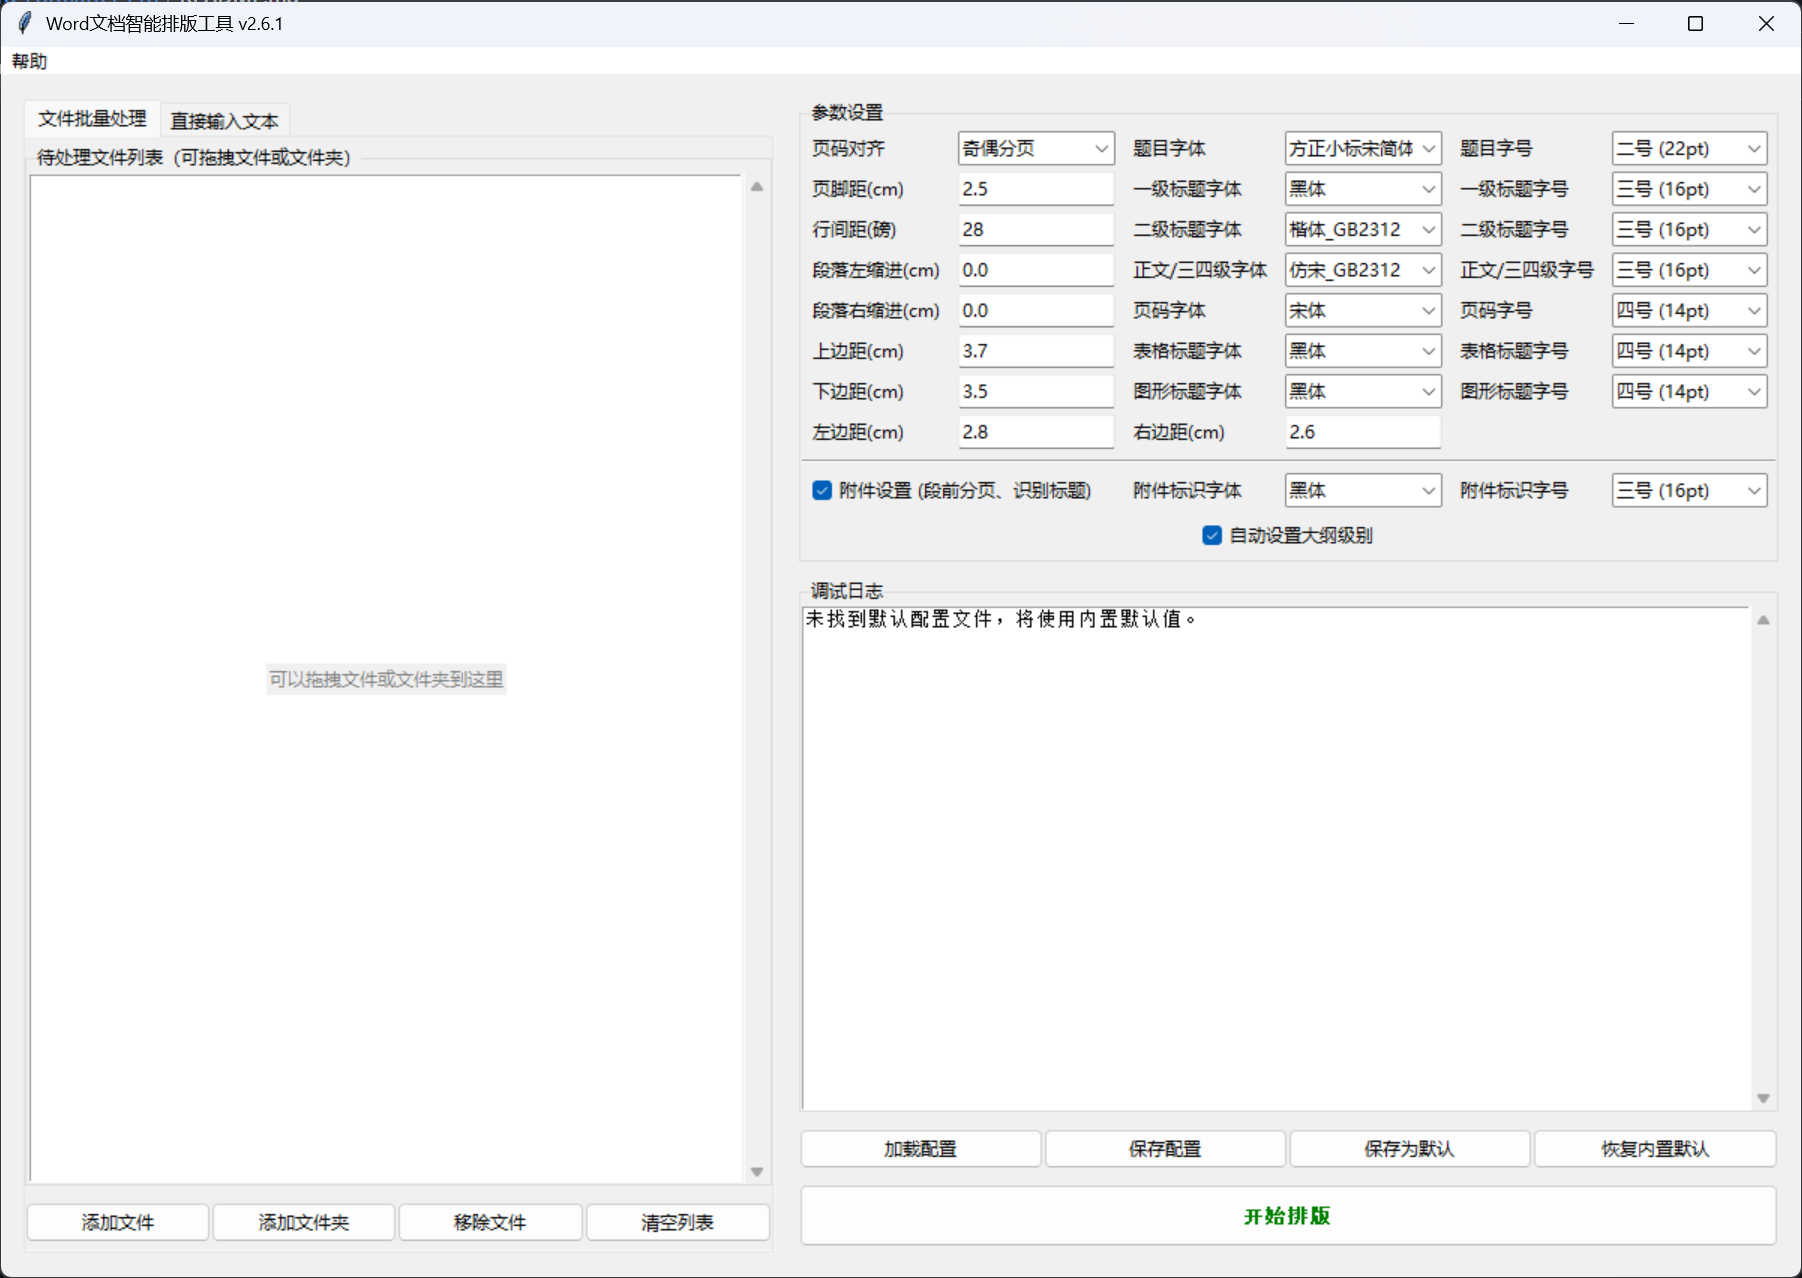
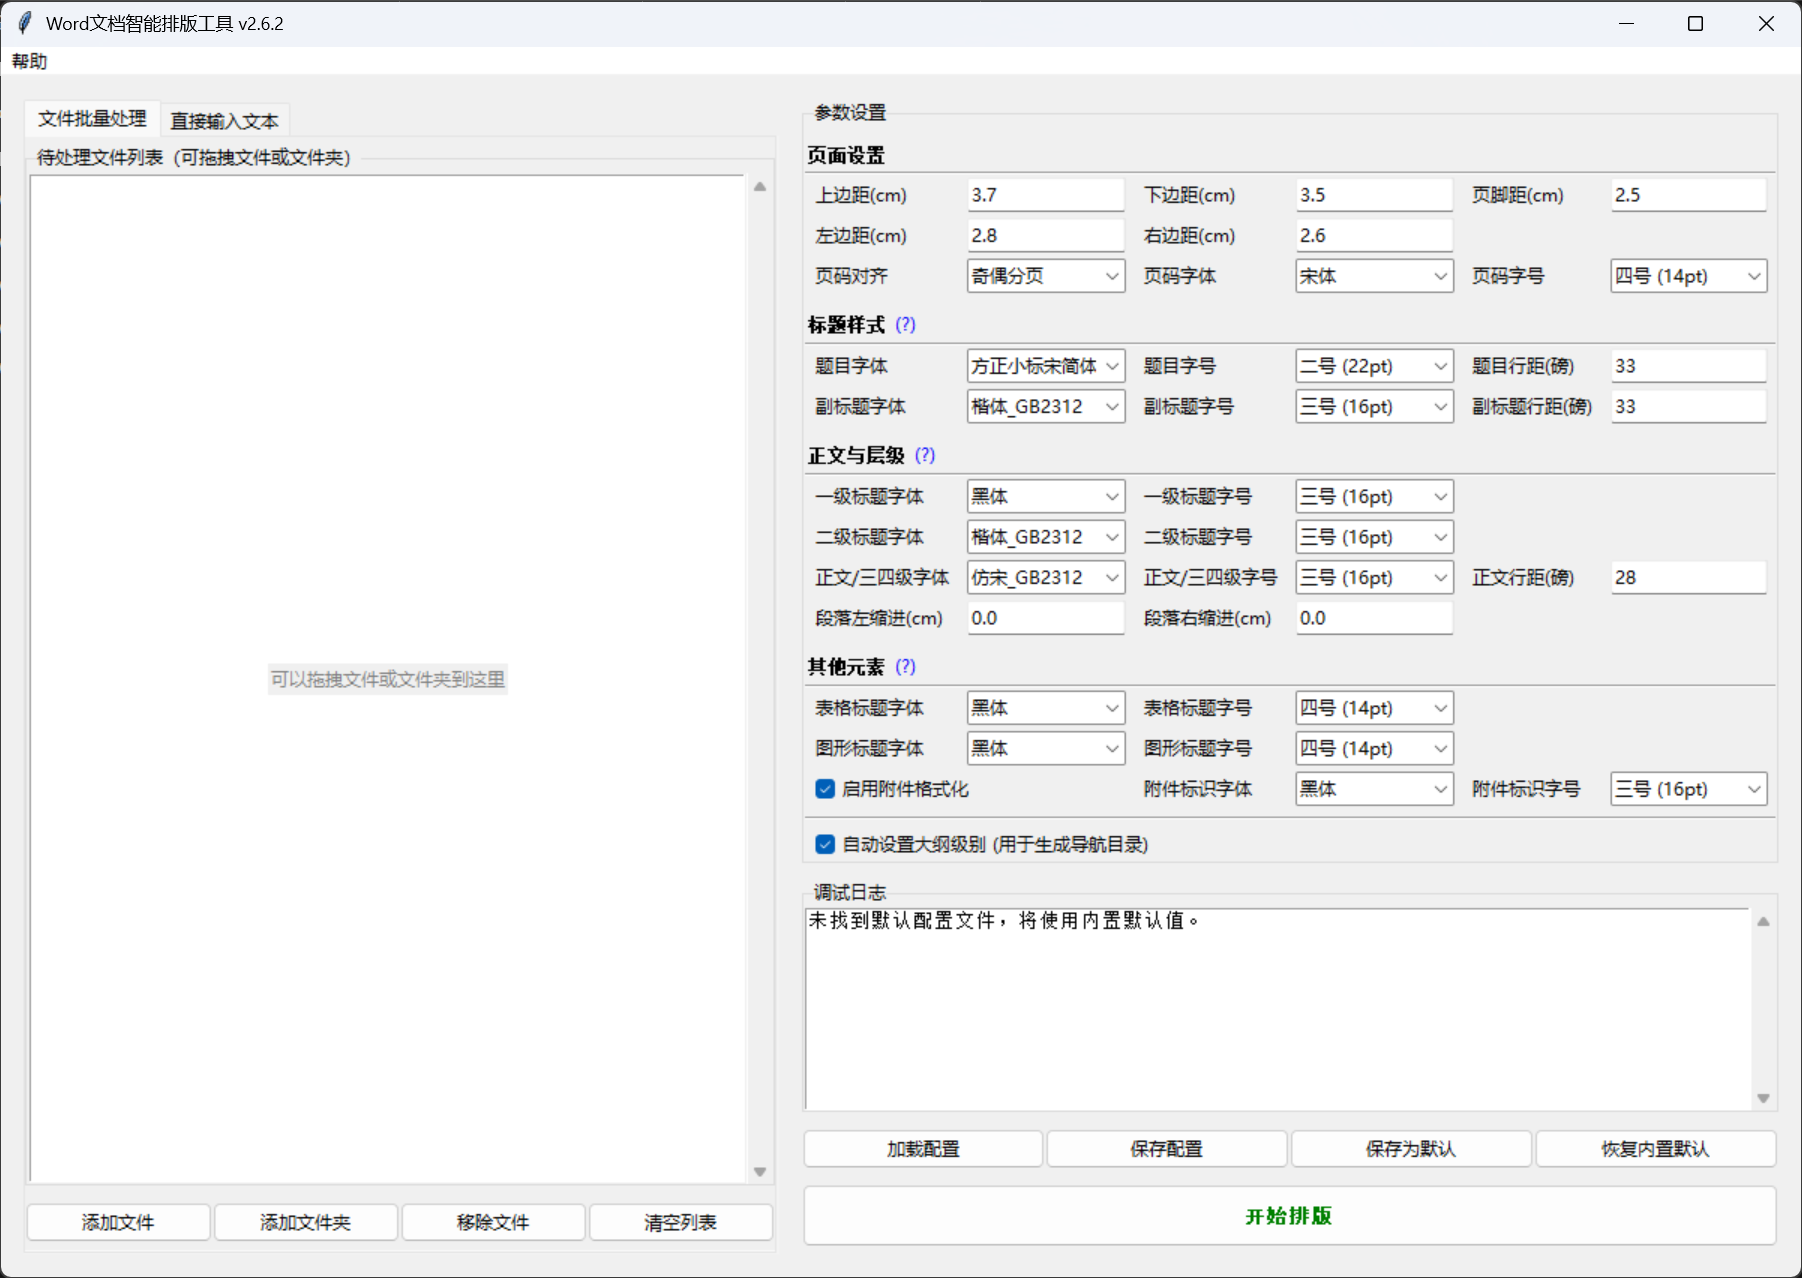
Add files via upload

diff --git a/wfp.py b/wfp.py
@@ -812,7 +812,7 @@ class WordProcessor:
 class WordFormatterGUI:
     def __init__(self, master):
         self.master = master
-        master.title("Word文档智能排版工具 v2.7.0")
+        master.title("Word文档智能排版工具 v2.6.2")
         master.geometry("1200x800")
 
         self.font_size_map = {
